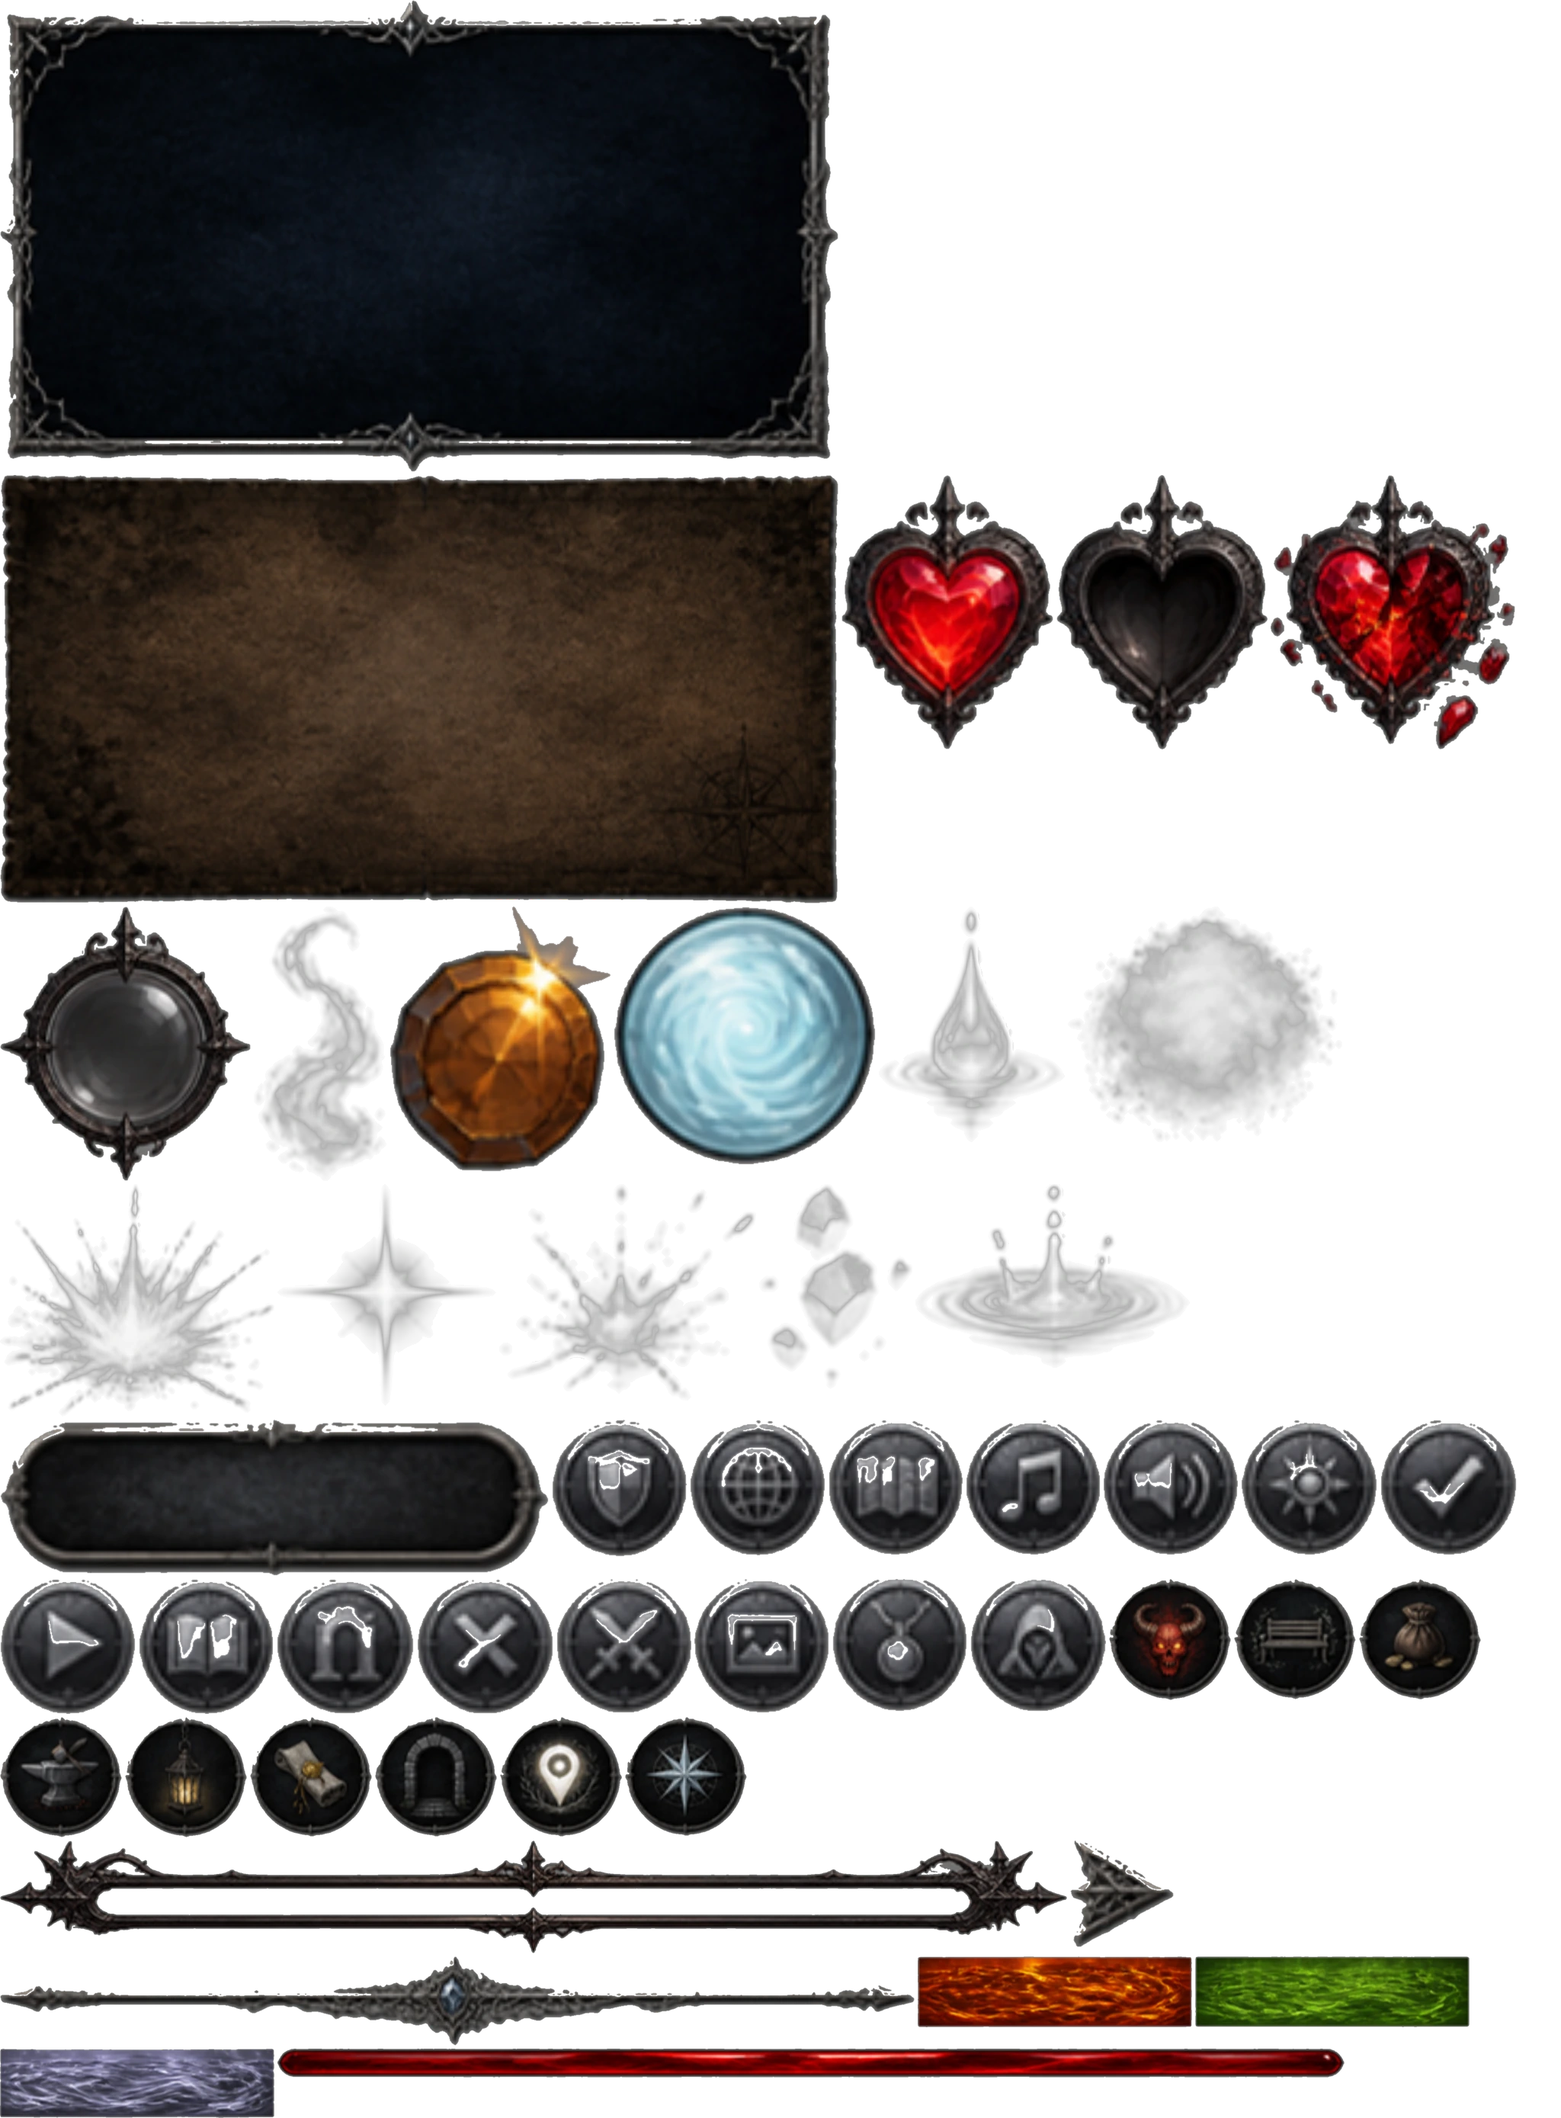
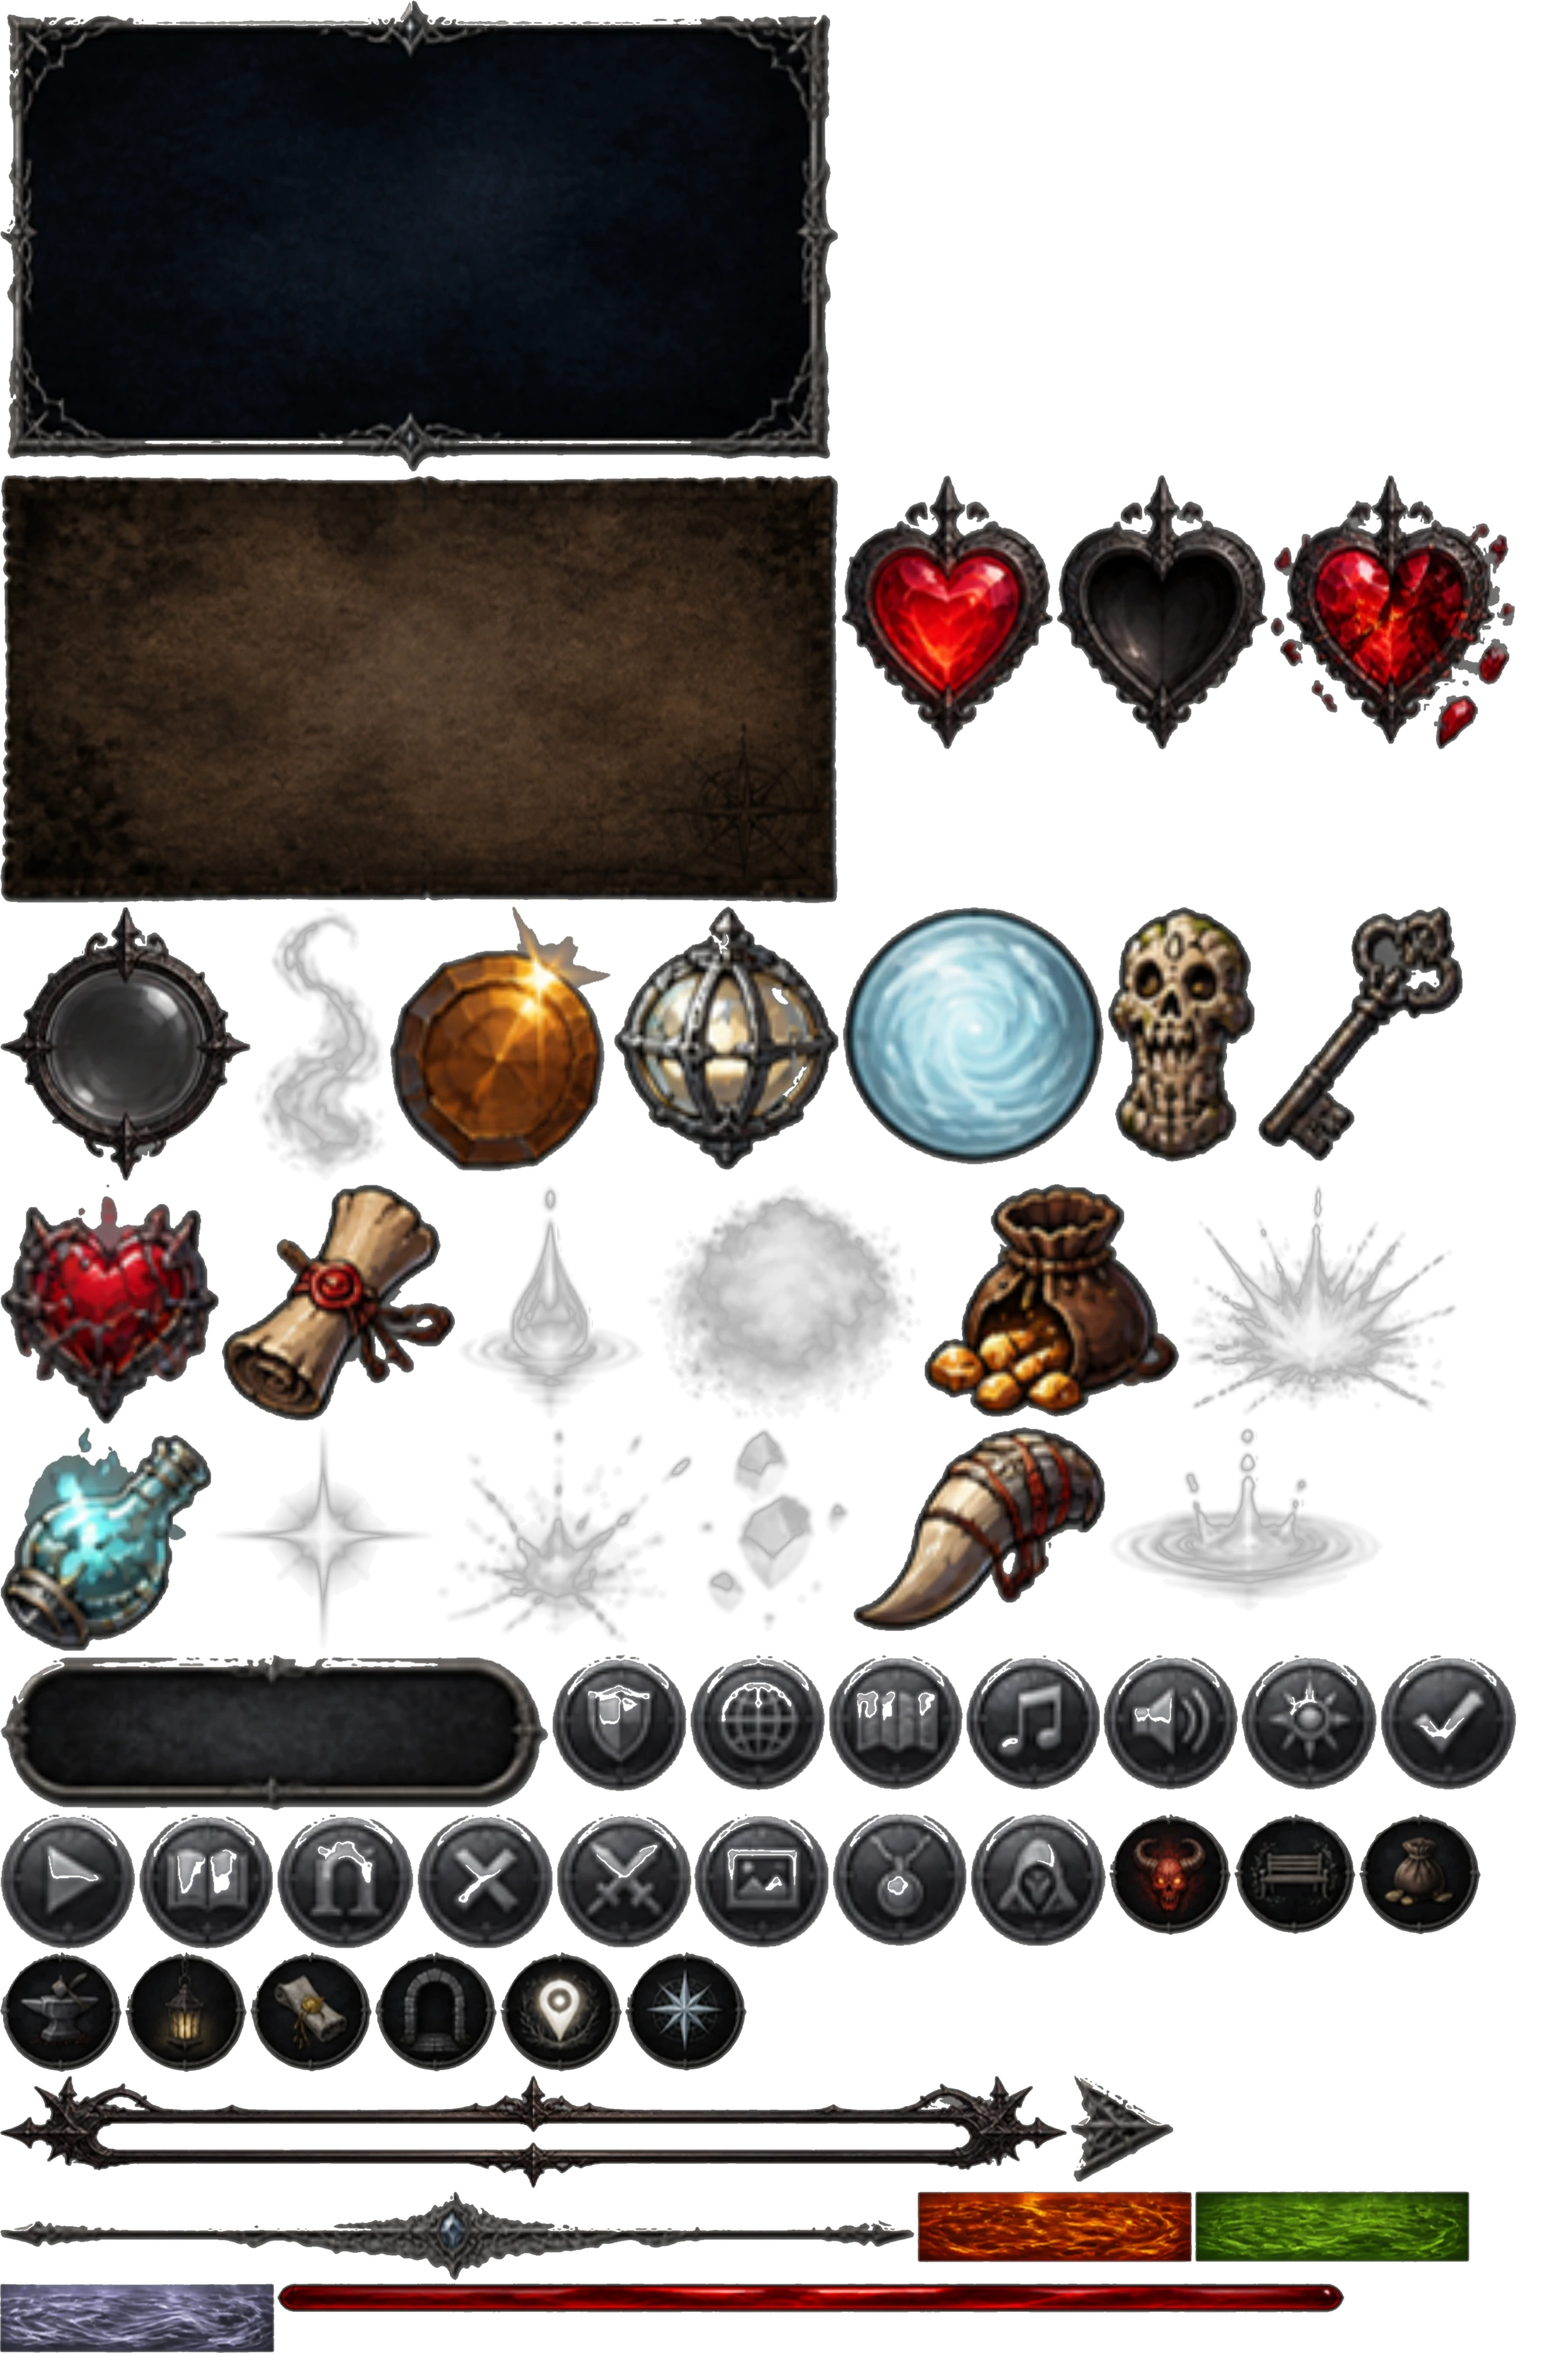
Painted pickups (life gem shards, relics, fangs, pouches); furnishings for Mossgrove and Spore Hollows

diff --git a/duskwell/js/ui_meta.js b/duskwell/js/ui_meta.js
@@ -1,3 +1,3 @@
 'use strict';
 // made by tools/paint/ui.py: the painted pieces of the interface in art/ui/ui.webp, [x, y, w, h]
-const UI_RECTS = {"bar_fill": [364, 2687, 1400, 38], "bar_frame": [0, 2414, 1400, 148], "button": [0, 1862, 720, 205], "coin": [511, 1189, 290, 348], "divider": [0, 2566, 1200, 117], "fx_burst": [0, 1553, 360, 305], "fx_chip": [996, 1553, 201, 269], "fx_drop": [1153, 1189, 244, 309], "fx_fleck": [655, 1553, 337, 284], "fx_puff": [1401, 1189, 360, 309], "fx_smoke": [333, 1189, 174, 360], "fx_spark": [364, 1553, 287, 291], "fx_splash": [1201, 1553, 360, 241], "life_broken": [1667, 623, 321, 360], "life_empty": [1386, 623, 277, 360], "life_full": [1104, 623, 278, 360], "liq_acid": [1568, 2566, 360, 93], "liq_lava": [1204, 2566, 360, 93], "liq_mercury": [0, 2687, 360, 91], "map_bench": [1619, 2071, 160, 158], "map_boss": [1455, 2071, 160, 159], "map_door": [492, 2252, 160, 157], "map_lantern": [164, 2252, 160, 158], "map_mage": [820, 2252, 160, 156], "map_merchant": [1783, 2071, 160, 158], "map_quest": [328, 2252, 160, 157], "map_smith": [0, 2252, 160, 158], "map_you": [656, 2252, 160, 157], "marker": [1404, 2414, 136, 140], "mi_book": [182, 2071, 177, 177], "mi_charm": [1092, 2071, 177, 174], "mi_door": [363, 2071, 180, 177], "mi_frame": [911, 2071, 177, 176], "mi_globe": [905, 1862, 178, 178], "mi_hood": [1273, 2071, 178, 174], "mi_map": [1087, 1862, 176, 178], "mi_no": [547, 2071, 179, 177], "mi_note": [1267, 1862, 177, 178], "mi_play": [0, 2071, 178, 177], "mi_shield": [724, 1862, 177, 180], "mi_speaker": [1448, 1862, 176, 178], "mi_sun": [1628, 1862, 179, 178], "mi_sword": [730, 2071, 177, 176], "mi_yes": [1811, 1862, 179, 178], "panel": [0, 0, 1100, 619], "parchment": [0, 623, 1100, 562], "soul": [805, 1189, 344, 339], "vessel": [0, 1189, 329, 360]};
+const UI_RECTS = {"bar_fill": [364, 2995, 1400, 38], "bar_frame": [0, 2722, 1400, 148], "button": [0, 2170, 720, 205], "coin": [511, 1189, 290, 348], "divider": [0, 2874, 1200, 117], "fx_burst": [1552, 1553, 360, 305], "fx_chip": [914, 1872, 201, 269], "fx_drop": [601, 1553, 244, 309], "fx_fleck": [573, 1872, 337, 284], "fx_puff": [849, 1553, 360, 309], "fx_smoke": [333, 1189, 174, 360], "fx_spark": [282, 1872, 287, 291], "fx_splash": [1455, 1872, 360, 241], "it_fang": [1119, 1872, 332, 268], "it_idol": [1453, 1189, 194, 335], "it_key": [1651, 1189, 268, 334], "it_life": [0, 1553, 287, 315], "it_pouch": [1213, 1553, 335, 306], "it_relic": [805, 1189, 296, 346], "it_scroll": [291, 1553, 306, 311], "it_vessel": [0, 1872, 278, 294], "life_broken": [1667, 623, 321, 360], "life_empty": [1386, 623, 277, 360], "life_full": [1104, 623, 278, 360], "liq_acid": [1568, 2874, 360, 93], "liq_lava": [1204, 2874, 360, 93], "liq_mercury": [0, 2995, 360, 91], "map_bench": [1619, 2379, 160, 158], "map_boss": [1455, 2379, 160, 159], "map_door": [492, 2560, 160, 157], "map_lantern": [164, 2560, 160, 158], "map_mage": [820, 2560, 160, 156], "map_merchant": [1783, 2379, 160, 158], "map_quest": [328, 2560, 160, 157], "map_smith": [0, 2560, 160, 158], "map_you": [656, 2560, 160, 157], "marker": [1404, 2722, 136, 140], "mi_book": [182, 2379, 177, 177], "mi_charm": [1092, 2379, 177, 174], "mi_door": [363, 2379, 180, 177], "mi_frame": [911, 2379, 177, 176], "mi_globe": [905, 2170, 178, 178], "mi_hood": [1273, 2379, 178, 174], "mi_map": [1087, 2170, 176, 178], "mi_no": [547, 2379, 179, 177], "mi_note": [1267, 2170, 177, 178], "mi_play": [0, 2379, 178, 177], "mi_shield": [724, 2170, 177, 180], "mi_speaker": [1448, 2170, 176, 178], "mi_sun": [1628, 2170, 179, 178], "mi_sword": [730, 2379, 177, 176], "mi_yes": [1811, 2170, 179, 178], "panel": [0, 0, 1100, 619], "parchment": [0, 623, 1100, 562], "soul": [1105, 1189, 344, 339], "vessel": [0, 1189, 329, 360]};

diff --git a/duskwell/js/decor_meta.js b/duskwell/js/decor_meta.js
@@ -1,3 +1,3 @@
 'use strict';
 // made by tools/paint/decor.py: the painted furnishings of each area in art/decor/<theme>.webp, [x, y, w, h]
-const DECOR = {"cave": {"arch": [1060, 0, 416, 420], "banner": [144, 0, 235, 420], "brazier": [693, 424, 264, 408], "cage": [383, 0, 168, 420], "candles": [961, 424, 291, 282], "chandelier": [555, 0, 340, 420], "fence": [1680, 424, 332, 278], "lantern": [0, 0, 140, 420], "pillar": [899, 0, 157, 420], "rubble": [1256, 424, 420, 279], "ruin": [1480, 0, 285, 420], "shrine": [238, 424, 254, 416], "statue": [1769, 0, 219, 420], "tomb": [0, 848, 415, 262], "totem": [0, 424, 234, 420], "urn": [496, 424, 193, 414]}, "town": {"arch": [294, 424, 403, 401], "banner": [161, 0, 229, 420], "brazier": [1742, 0, 266, 413], "cage": [394, 0, 167, 420], "candles": [959, 424, 298, 299], "chandelier": [565, 0, 338, 420], "fence": [1685, 424, 328, 260], "lantern": [0, 0, 157, 420], "pillar": [907, 0, 159, 420], "rubble": [1261, 424, 420, 284], "ruin": [0, 424, 290, 405], "shrine": [701, 424, 254, 400], "statue": [1070, 0, 220, 420], "tomb": [0, 833, 403, 253], "totem": [1294, 0, 241, 420], "urn": [1539, 0, 199, 419]}};
+const DECOR = {"cave": {"arch": [1060, 0, 416, 420], "banner": [144, 0, 235, 420], "brazier": [693, 424, 264, 408], "cage": [383, 0, 168, 420], "candles": [961, 424, 291, 282], "chandelier": [555, 0, 340, 420], "fence": [1680, 424, 332, 278], "lantern": [0, 0, 140, 420], "pillar": [899, 0, 157, 420], "rubble": [1256, 424, 420, 279], "ruin": [1480, 0, 285, 420], "shrine": [238, 424, 254, 416], "statue": [1769, 0, 219, 420], "tomb": [0, 848, 415, 262], "totem": [0, 424, 234, 420], "urn": [496, 424, 193, 414]}, "moss": {"arch": [1573, 0, 384, 355], "banner": [765, 408, 251, 318], "brazier": [268, 408, 276, 343], "cage": [900, 0, 190, 365], "candles": [1020, 408, 300, 289], "chandelier": [0, 0, 302, 404], "fence": [0, 766, 353, 247], "lantern": [1094, 0, 172, 362], "pillar": [472, 0, 212, 377], "rubble": [1324, 408, 388, 267], "ruin": [0, 408, 264, 354], "shrine": [1270, 0, 299, 361], "statue": [688, 0, 208, 373], "tomb": [1716, 408, 329, 267], "totem": [306, 0, 162, 390], "urn": [548, 408, 213, 324]}, "spore": {"arch": [0, 387, 393, 341], "banner": [1277, 387, 273, 317], "brazier": [1641, 0, 266, 342], "cage": [923, 0, 192, 362], "candles": [1554, 387, 291, 309], "chandelier": [187, 0, 290, 379], "fence": [372, 732, 354, 237], "lantern": [1119, 0, 247, 356], "pillar": [700, 0, 219, 365], "rubble": [0, 732, 368, 265], "ruin": [1370, 0, 267, 346], "shrine": [637, 387, 296, 336], "statue": [481, 0, 215, 369], "tomb": [937, 387, 336, 319], "totem": [0, 0, 183, 383], "urn": [397, 387, 236, 336]}, "town": {"arch": [294, 424, 403, 401], "banner": [161, 0, 229, 420], "brazier": [1742, 0, 266, 413], "cage": [394, 0, 167, 420], "candles": [959, 424, 298, 299], "chandelier": [565, 0, 338, 420], "fence": [1685, 424, 328, 260], "lantern": [0, 0, 157, 420], "pillar": [907, 0, 159, 420], "rubble": [1261, 424, 420, 284], "ruin": [0, 424, 290, 405], "shrine": [701, 424, 254, 400], "statue": [1070, 0, 220, 420], "tomb": [0, 833, 403, 253], "totem": [1294, 0, 241, 420], "urn": [1539, 0, 199, 419]}};

diff --git a/duskwell/js/art_decor.js b/duskwell/js/art_decor.js
@@ -64,3 +64,15 @@ const Decor = (() => {
   }
   return { has, stats, spots };
 })();
+// the things to pick up, painted: a shard of a life gem, a relic of a power, a fang, a pouch
+(() => {
+  const old = Art.drawItem;
+  const PIC = { seed: 'it_life', ability: 'it_relic', fang: 'it_fang', vessel: 'it_vessel', key: 'it_key', scroll: 'it_scroll', idol: 'it_idol' };
+  Art.drawItem = function (g, it, t) {
+    const n = PIC[it.kind] || (it.kind !== 'charm' && it.kind !== 'cache' ? 'it_pouch' : null);
+    if (!n || typeof UiArt === 'undefined' || !UiArt.has(n)) return old(g, it, t);
+    const y = it.y + Math.sin(t * 2.5) * 5, glow = { it_life: '#ff5a6a', it_relic: '#e6f3ff', it_vessel: '#9fe0ff' }[n] || '#ffe9a0';
+    bloom(g, it.x, y, it.kind === 'ability' ? 100 : 60, glow, 0.32 + 0.12 * Math.sin(t * 3));
+    UiArt.draw(g, n, it.x, y, it.kind === 'ability' ? 46 : 36);
+  };
+})();
